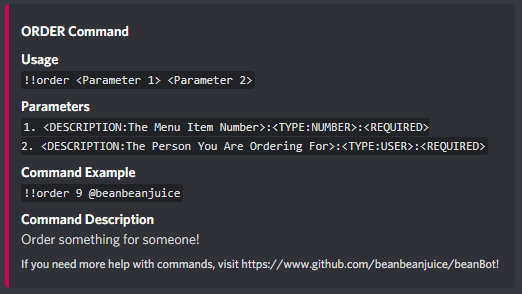
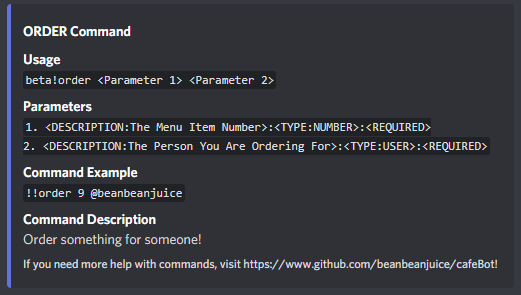
Updated the README.md File

Changed region(s): [[0.0, 0.0, 0.952, 0.9796]]

diff --git a/README.md b/README.md
@@ -18,23 +18,23 @@
 <!-- PROJECT LOGO -->
 <br />
 <p align="center">
-  <a href="https://github.com/beanbeanjuice/beanBot">
+  <a href="https://github.com/beanbeanjuice/cafeBot">
     <img src="images/logo.gif" alt="Logo" width="260" height="186">
   </a>
 
-  <h3 align="center">beanBot</h3>
+  <h3 align="center">cafeBot</h3>
 
   <p align="center">
     A cafe bot for your discord server!
     <br />
-    <a href="https://github.com/beanbeanjuice/beanBot"><strong>Explore the docs »</strong></a>
+    <a href="https://github.com/beanbeanjuice/cafeBot"><strong>Explore the docs »</strong></a>
     <br />
     <br />
-    <a href="https://github.com/beanbeanjuice/beanBot">View Demo</a>
+    <a href="https://github.com/beanbeanjuice/cafeBot">View Demo</a>
     ·
-    <a href="https://github.com/beanbeanjuice/beanBot/issues">Report Bug</a>
+    <a href="https://github.com/beanbeanjuice/cafeBot/issues">Report Bug</a>
     ·
-    <a href="https://github.com/beanbeanjuice/beanBot/issues">Request Feature</a>
+    <a href="https://github.com/beanbeanjuice/cafeBot/issues">Request Feature</a>
   </p>
 </p>
 
@@ -71,7 +71,7 @@
 <!-- ABOUT THE PROJECT -->
 # About The Project
 
-[![Product Name Screen Shot][product-title]](https://www.beanbeanjuice.com/beanBot.html)
+[![Product Name Screen Shot][product-title]](https://www.beanbeanjuice.com/cafeBot.html)
 
 
 ### Built With
@@ -171,7 +171,7 @@ As you can see, this was shown using the command `!!help order`. It shows each p
 <!-- ROADMAP -->
 # Roadmap
 
-See the [open issues](https://github.com/beanbeanjuice/beanBot/issues) for a list of proposed features (and known issues).
+See the [open issues](https://github.com/beanbeanjuice/cafeBot/issues) for a list of proposed features (and known issues).
 
 
 
@@ -200,7 +200,7 @@ Distributed under the GPL-3.0 License. See `LICENSE` for more information.
 
 Your Name - [@beanbeanjuice](https://twitter.com/beanbeanjuice) - beanbeanjuice@outlook.com
 
-Project Link: [https://github.com/beanbeanjuice/beanBot](https://github.com/beanbeanjuice/beanBot)
+Project Link: [https://github.com/beanbeanjuice/cafeBot](https://github.com/beanbeanjuice/cafeBot)
 
 
 
@@ -215,17 +215,17 @@ Project Link: [https://github.com/beanbeanjuice/beanBot](https://github.com/bean
 
 <!-- MARKDOWN LINKS & IMAGES -->
 <!-- https://www.markdownguide.org/basic-syntax/#reference-style-links -->
-[contributors-shield]: https://img.shields.io/github/contributors/beanbeanjuice/beanBot.svg?style=for-the-badge
-[contributors-url]: https://github.com/beanbeanjuice/beanBot/graphs/contributors
-[forks-shield]: https://img.shields.io/github/forks/beanbeanjuice/beanBot.svg?style=for-the-badge
-[forks-url]: https://github.com/beanbeanjuice/beanBot/network/members
-[stars-shield]: https://img.shields.io/github/stars/beanbeanjuice/beanBot.svg?style=for-the-badge
-[stars-url]: https://github.com/beanbeanjuice/beanBot/stargazers
-[issues-shield]: https://img.shields.io/github/issues/beanbeanjuice/beanBot.svg?style=for-the-badge
-[issues-url]: https://github.com/beanbeanjuice/beanBot/issues
-[license-shield]: https://img.shields.io/github/license/beanbeanjuice/beanBot.svg?style=for-the-badge
-[license-url]: https://github.com/beanbeanjuice/beanBot/blob/master/LICENSE.txt
+[contributors-shield]: https://img.shields.io/github/contributors/beanbeanjuice/cafeBot.svg?style=for-the-badge
+[contributors-url]: https://github.com/beanbeanjuice/cafeBot/graphs/contributors
+[forks-shield]: https://img.shields.io/github/forks/beanbeanjuice/cafeBot.svg?style=for-the-badge
+[forks-url]: https://github.com/beanbeanjuice/cafeBot/network/members
+[stars-shield]: https://img.shields.io/github/stars/beanbeanjuice/cafeBot.svg?style=for-the-badge
+[stars-url]: https://github.com/beanbeanjuice/cafeBot/stargazers
+[issues-shield]: https://img.shields.io/github/issues/beanbeanjuice/cafeBot.svg?style=for-the-badge
+[issues-url]: https://github.com/beanbeanjuice/cafeBot/issues
+[license-shield]: https://img.shields.io/github/license/beanbeanjuice/cafeBot.svg?style=for-the-badge
+[license-url]: https://github.com/beanbeanjuice/cafeBot/blob/master/LICENSE.txt
 [linkedin-shield]: https://img.shields.io/badge/-LinkedIn-black.svg?style=for-the-badge&logo=linkedin&colorB=555
 [linkedin-url]: https://linkedin.com/in/beanbeanjuice
-[product-title]: images/beanBot.png
+[product-title]: images/cafeBot.png
 [help-screenshot]: images/help.png
